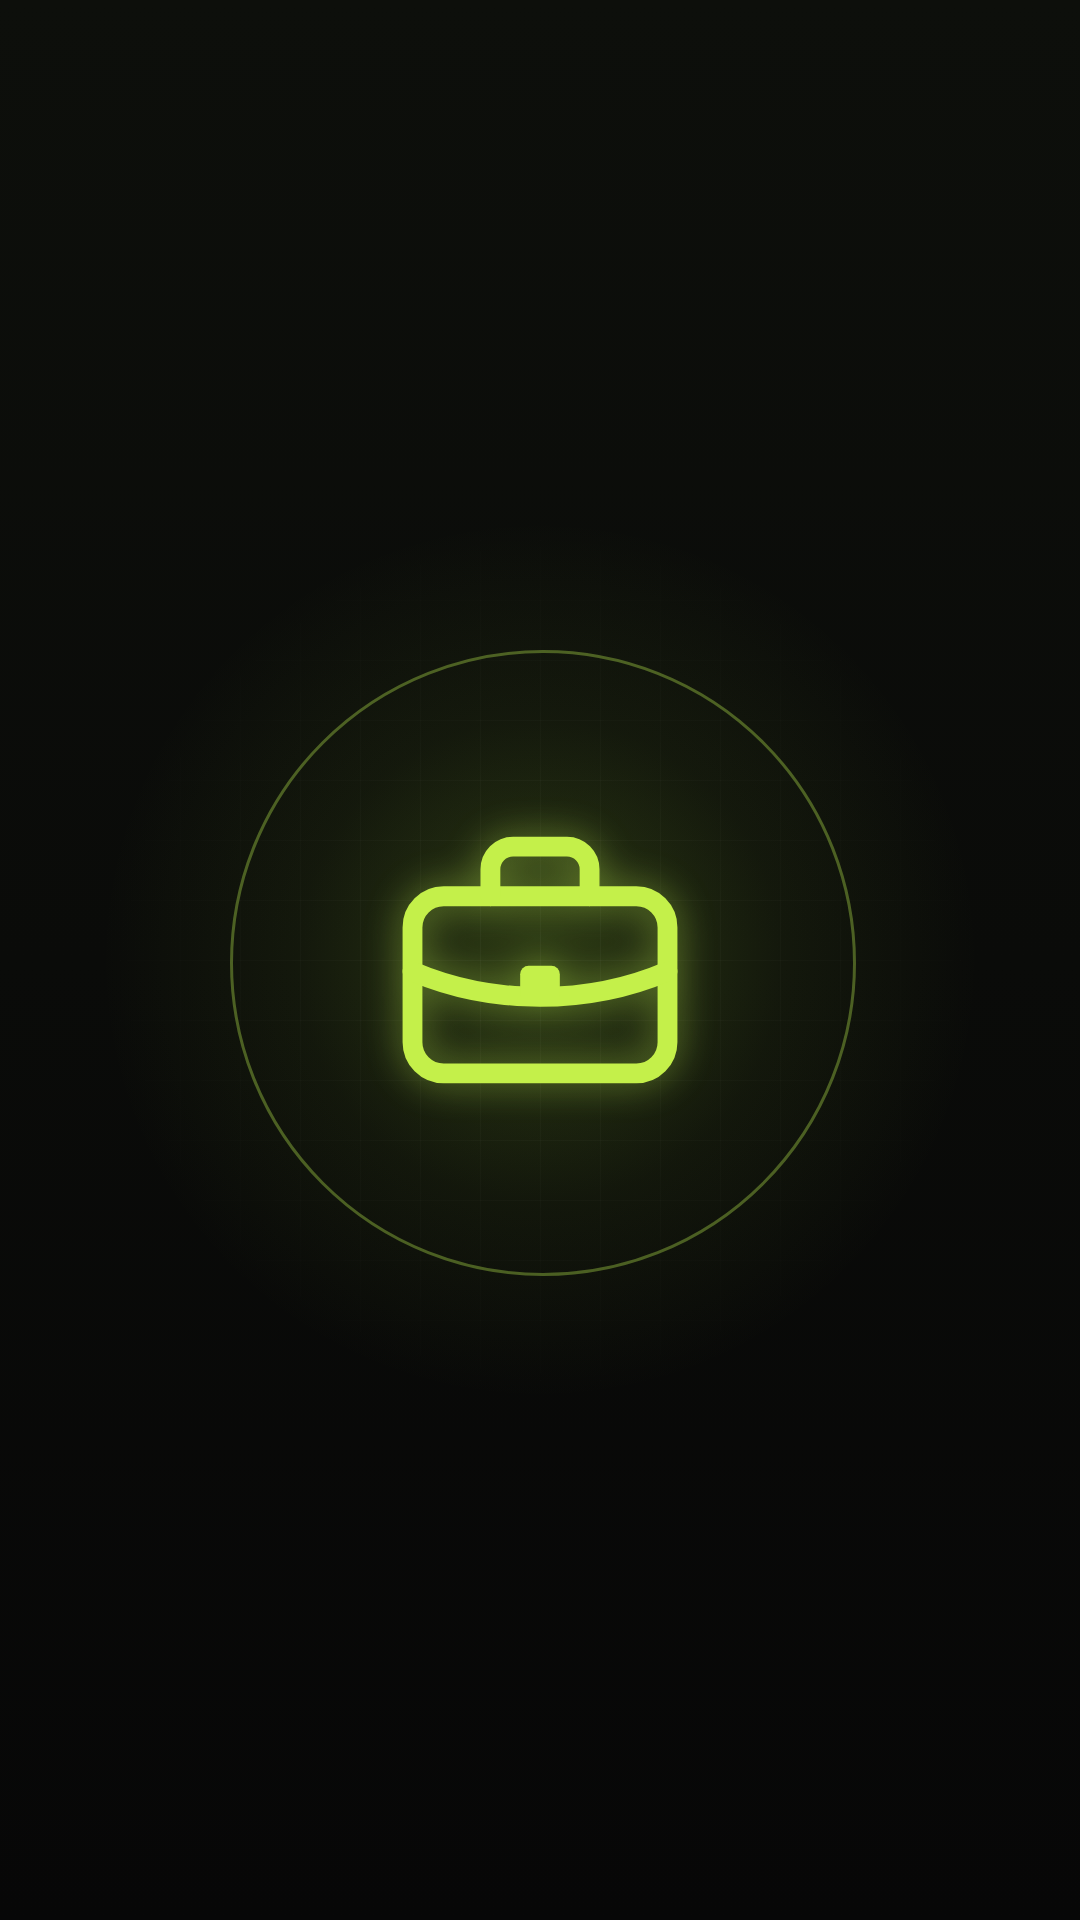
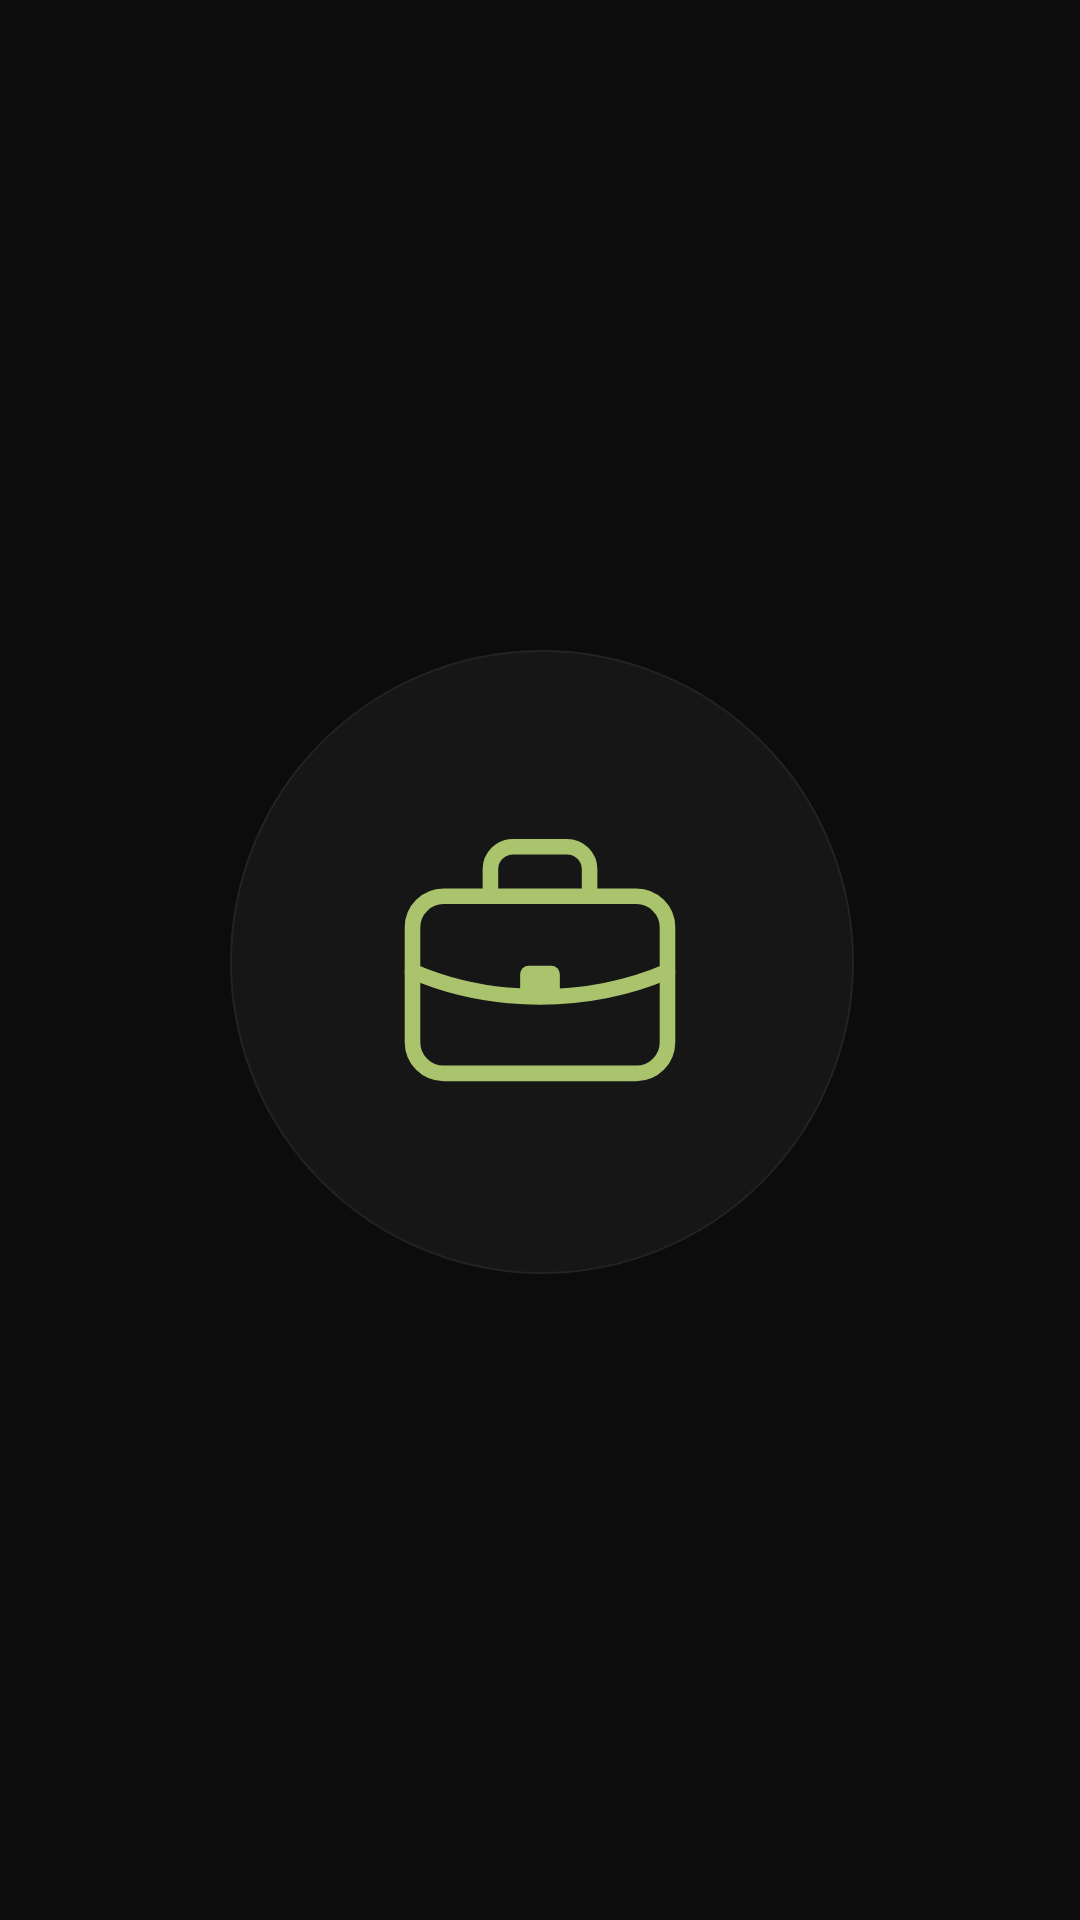
Capas sem efeito neon, estilo flat
Claude-Session: https://claude.ai/code/session_01VNqzdiVADvnKgtWVjamXEa

diff --git a/capas/clientes.html b/capas/clientes.html
@@ -1,11 +1,8 @@
 <!doctype html><html><head><meta charset="utf-8"><style>
 html,body{margin:0;width:1080px;height:1920px;background:#0a0a0a;overflow:hidden}
-.bg{position:absolute;inset:0;background:
- radial-gradient(circle at 50% 50%, rgba(170,230,60,.22) 0, rgba(170,230,60,.06) 22%, rgba(0,0,0,0) 40%),
- linear-gradient(#0d0f0b,#070707)}
-.grid{position:absolute;inset:0;background-image:linear-gradient(rgba(255,255,255,.035) 1px,transparent 1px),linear-gradient(90deg,rgba(255,255,255,.035) 1px,transparent 1px);background-size:60px 60px;-webkit-mask:radial-gradient(circle at 50% 50%,#000 0,transparent 45%)}
-.ring{position:absolute;left:50%;top:50%;width:620px;height:620px;margin:-310px;border-radius:50%;border:3px solid rgba(190,240,80,.35)}
-svg{position:absolute;left:50%;top:50%;width:340px;height:340px;margin:-170px;filter:drop-shadow(0 0 18px rgba(190,240,80,.45))}
-</style></head><body><div class="bg"></div><div class="grid"></div><div class="ring"></div>
-<svg viewBox="0 0 24 24" fill="none" stroke="#C4F04A" stroke-width="1.4" stroke-linecap="round" stroke-linejoin="round"><rect x="3" y="7.5" width="18" height="12.5" rx="2.2"/><path d="M8.5 7.5V5.6A1.6 1.6 0 0 1 10.1 4h3.8a1.6 1.6 0 0 1 1.6 1.6v1.9"/><path d="M3 12.8c5.6 2.4 12.4 2.4 18 0"/><rect x="10.6" y="12.4" width="2.8" height="2.6" rx=".6" fill="#C4F04A" stroke="none"/></svg>
+.bg{position:absolute;inset:0;background:#0c0c0c}
+.ring{position:absolute;left:50%;top:50%;width:620px;height:620px;margin:-310px;border-radius:50%;background:#161616;border:2px solid #232323}
+svg{position:absolute;left:50%;top:50%;width:340px;height:340px;margin:-170px;}
+</style></head><body><div class="bg"></div><div class="ring"></div>
+<svg viewBox="0 0 24 24" fill="none" stroke="#A9C46C" stroke-width="1.1" stroke-linecap="round" stroke-linejoin="round"><rect x="3" y="7.5" width="18" height="12.5" rx="2.2"/><path d="M8.5 7.5V5.6A1.6 1.6 0 0 1 10.1 4h3.8a1.6 1.6 0 0 1 1.6 1.6v1.9"/><path d="M3 12.8c5.6 2.4 12.4 2.4 18 0"/><rect x="10.6" y="12.4" width="2.8" height="2.6" rx=".6" fill="#A9C46C" stroke="none"/></svg>
 </body></html>

diff --git a/capas/feedbacks.html b/capas/feedbacks.html
@@ -1,11 +1,8 @@
 <!doctype html><html><head><meta charset="utf-8"><style>
 html,body{margin:0;width:1080px;height:1920px;background:#0a0a0a;overflow:hidden}
-.bg{position:absolute;inset:0;background:
- radial-gradient(circle at 50% 50%, rgba(170,230,60,.22) 0, rgba(170,230,60,.06) 22%, rgba(0,0,0,0) 40%),
- linear-gradient(#0d0f0b,#070707)}
-.grid{position:absolute;inset:0;background-image:linear-gradient(rgba(255,255,255,.035) 1px,transparent 1px),linear-gradient(90deg,rgba(255,255,255,.035) 1px,transparent 1px);background-size:60px 60px;-webkit-mask:radial-gradient(circle at 50% 50%,#000 0,transparent 45%)}
-.ring{position:absolute;left:50%;top:50%;width:620px;height:620px;margin:-310px;border-radius:50%;border:3px solid rgba(190,240,80,.35)}
-svg{position:absolute;left:50%;top:50%;width:340px;height:340px;margin:-170px;filter:drop-shadow(0 0 18px rgba(190,240,80,.45))}
-</style></head><body><div class="bg"></div><div class="grid"></div><div class="ring"></div>
-<svg viewBox="0 0 24 24" fill="none" stroke="#C4F04A" stroke-width="1.4" stroke-linecap="round" stroke-linejoin="round"><path d="M20 11.5a7.8 7.8 0 0 1-11.6 6.8L4 19.6l1.3-4.2A7.8 7.8 0 1 1 20 11.5Z"/><path d="M12.1 7.6l1.15 2.35 2.6.38-1.88 1.83.44 2.58-2.31-1.22-2.32 1.22.45-2.58-1.88-1.83 2.6-.38Z" fill="#C4F04A" stroke-width="1"/></svg>
+.bg{position:absolute;inset:0;background:#0c0c0c}
+.ring{position:absolute;left:50%;top:50%;width:620px;height:620px;margin:-310px;border-radius:50%;background:#161616;border:2px solid #232323}
+svg{position:absolute;left:50%;top:50%;width:340px;height:340px;margin:-170px;}
+</style></head><body><div class="bg"></div><div class="ring"></div>
+<svg viewBox="0 0 24 24" fill="none" stroke="#A9C46C" stroke-width="1.1" stroke-linecap="round" stroke-linejoin="round"><path d="M20 11.5a7.8 7.8 0 0 1-11.6 6.8L4 19.6l1.3-4.2A7.8 7.8 0 1 1 20 11.5Z"/><path d="M12.1 7.6l1.15 2.35 2.6.38-1.88 1.83.44 2.58-2.31-1.22-2.32 1.22.45-2.58-1.88-1.83 2.6-.38Z" fill="#A9C46C" stroke-width="1"/></svg>
 </body></html>
